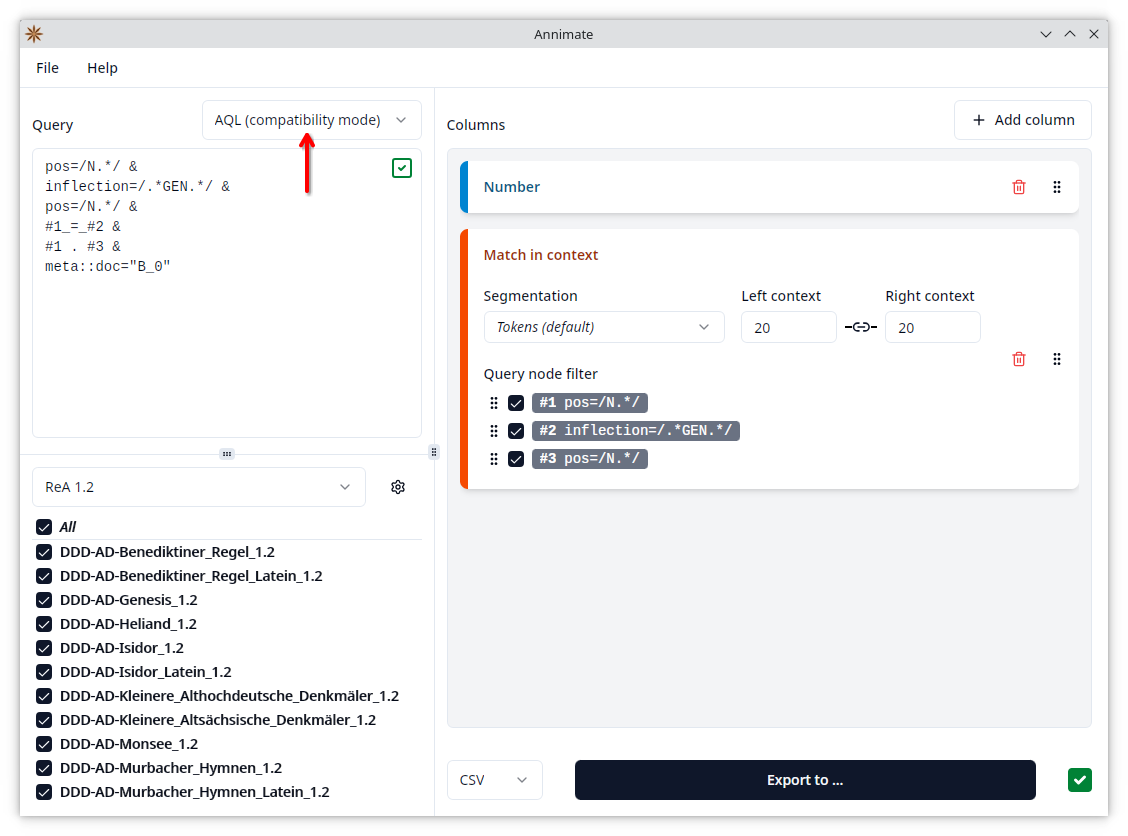
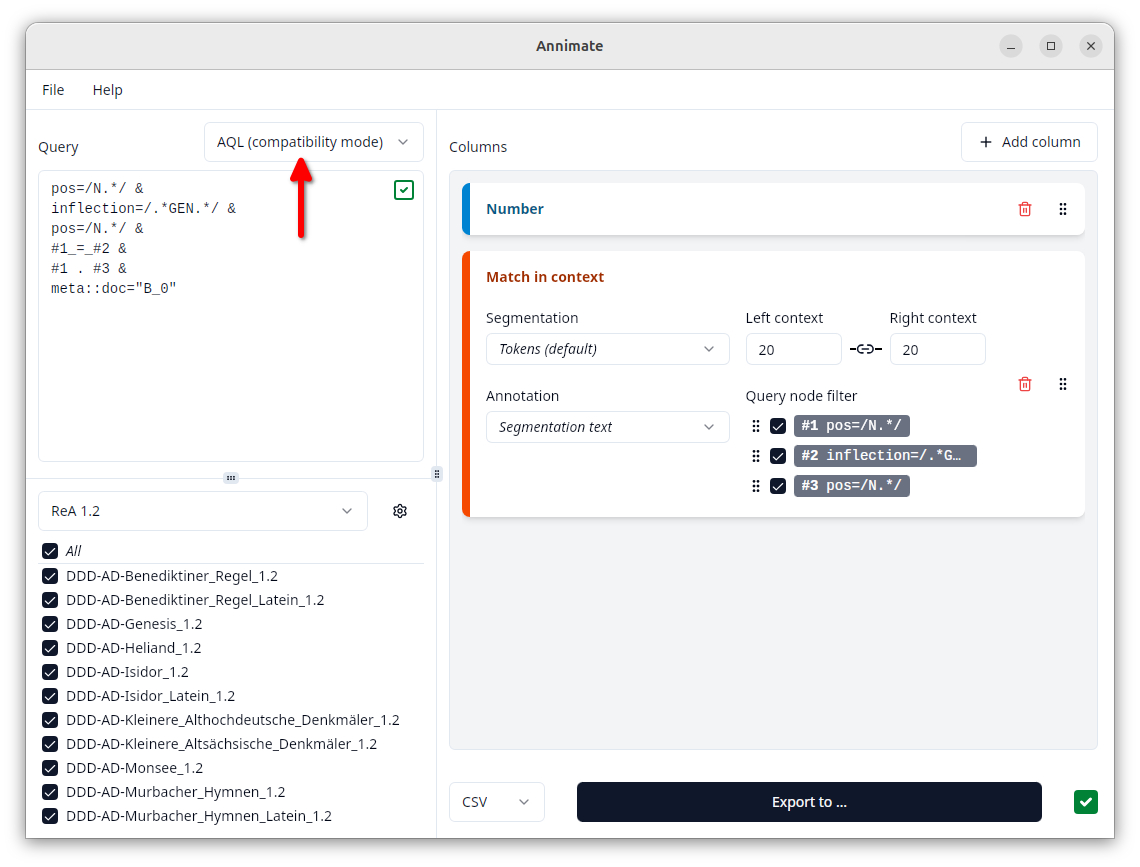
Update User Guide and README screenshot for annotation-in-context feature

diff --git a/docs/user-guide/src/columns/match-in-context.md b/docs/user-guide/src/columns/match-in-context.md
@@ -32,9 +32,13 @@ Under "Segmentation", you can select the segmentation layer to be used for the "
 
 Under "Left context" and "Right context" you can define how many segmentation nodes to the left respectively right of any match node should be included as context. You can enter any number from `0` to `999` inclusive. Since it is very common to use the same size for the left and right contexts, by default changing one of the two numbers will automatically set the other to the same value. In order to turn off this behavior, enabling you to set the left and right context sizes independently, click on the "link" icon between the two.
 
-> **Note:** Some corpora contain non-standard segmentations where the context size cannot be measured in segmentation nodes for technical reasons. In such cases, context size will be measured in tokens instead. This can lead to smaller context windows than expected. In this case, just increase the context size as needed. The textual content of the "Match in context" columns will still be according to the selected segmentation in any case.
+> **Note:** Some corpora contain non-standard segmentations where the context size cannot be measured in segmentation nodes for technical reasons. In such cases, context size will be measured in tokens instead. This can lead to smaller context windows than expected. In this case, just increase the context size as needed. The content of the "Match in context" columns will still be according to the selected segmentation in any case.
 
 Note that setting very small context sizes can lead to "gaps" in the export in case a match consists of two nodes that are so far apart that their context windows don't overlap. In this case the gap is marked as `(...)` in the respective context column in the export. If both context sizes are set to zero, the export will not contain any context columns at all (unless you use the query node filter, see below).
+
+Under "Annotation", you can select which annotation of the segmentation nodes to use for the "Match in context" columns. The default selection _Segmentation text_ refers to the textual content of the segmentation layer itself. If you select an annotation such as `pos` or `inflection`, the export will contain the value of the selected annotation for each segmentation node instead of its textual content. See [Match annotation](match-annotation.md) for details on this list of annotations.
+
+> **Note:** Unlike for "Match annotation", the selected annotation must be present on the segmentation nodes themselves rather than on any node with overlapping token coverage. If the exported columns are empty, try selecting a different segmentation.
 
 There is a special case in which you may want to treat a node matched by the query as part of the context rather than as a match: Some corpora contain annotations for larger spans such as clauses, which you may want to use as auxiliary nodes to express conditions on the nodes you are actually looking for. For instance, suppose we want to restrict the above query to matches contained within interrogative clauses:
 

diff --git a/docs/user-guide/src/troubleshooting.md b/docs/user-guide/src/troubleshooting.md
@@ -38,11 +38,17 @@ If your desired segmentation layer is not listed under "Segmentation" in a [Matc
 
 To fix this, you may want to group your corpora differently, so that all corpora in a set contain the same segmentations. Alternatively, you can use different segmentations for different subsets of corpora by doing separate exports.
 
-### Match in context: Columns are empty
+### Match in context: Columns are empty when "Segmentation text" is selected
 
-If the [Match in context](columns/match-in-context.md) columns in your CSV or Excel file are empty, this may be because you selected the _Tokens (default)_ segmentation, but your corpus uses _virtual tokens_. This means that the segmentation nodes on the token layer do not have any textual content (hence the empty columns), but just serve the purpose of aligning other segmentation layers.
+If the [Match in context](columns/match-in-context.md) columns in your CSV or Excel file are empty and you selected _Segmentation text_ under "Annotation", this may be because you selected the _Tokens (default)_ segmentation, but your corpus uses _virtual tokens_. This means that the segmentation nodes on the token layer do not have any textual content (hence the empty columns), but just serve the purpose of aligning other segmentation layers.
 
 To fix this, try choosing an option different from _Tokens (default)_ under "Segmentation". If there is no other option, check out the [previous point](#match-in-context-desired-segmentation-is-not-listed).
+
+### Match in context: Columns are empty when an annotation is selected
+
+If the [Match in context](columns/match-in-context.md) columns in your CSV or Excel file are empty and you selected an annotation different from _Segmentation text_, this may be because the selected annotation is not available on the nodes of the selected segmentation.
+
+To fix this, try choosing a different option under "Segmentation".
 
 ### Match in context: Context window is smaller than expected
 

diff --git a/docs/user-guide/README.md b/docs/user-guide/README.md
@@ -1,11 +1,19 @@
 # Annimate User Guide Authoring
 
+## Running the User Guide Locally
+
+Run
+
+```shell
+mdbook serve --open
+```
+
 ## Taking Screenshots
 
-- In `tauri.conf.json`, set window size to `1088x768`
-- In `main.rs`, comment the restoration of the window state
-- Configure window decorations appropriately
-  - In KDE use `Breeze` with `Small` shadows of strength `50%`, otherwise keep the defaults
+- In `tauri.conf.json`, set the window size to `1088x768`
+- In `main.rs`, comment out the restoration of the window state
 - Start the application and navigate to the state of which you want to take a screenshot
-- Take a screenshot of the window with Spectacle
-- Add annotations as needed
+- Take a screenshot of the window with the GNOME builtin screenshot tool (Alt+PrintScreen)
+- If the screenshot should include a native dialog, take a separate screenshot of the dialog and overlay the two images using [GIMP](https://www.gimp.org/)
+- Add annotations using [ksnip](https://github.com/ksnip/ksnip) if needed
+  - In ksnip, set Options > Settings > Annotator > Canvas Color to transparent

diff --git a/docs/user-guide/src/links.md b/docs/user-guide/src/links.md
@@ -36,3 +36,8 @@ Reference corpora of historical German (see [Deutsch Diachron Digital](https://w
 | [Referenzkorpus Mittelniederdeutsch/Niederrheinisch (ReN)](https://www.slm.uni-hamburg.de/ren.html) | 1.1     | [ANNIS 3](https://annis.fdm.uni-hamburg.de/annis-gui-3.6.0/ren) | [relannis (Uni Hamburg)](https://www.fdr.uni-hamburg.de/record/9195/files/relANNIS-split_1.1.zip?download=1) |
 
 \* Note that the two versions of ReM cannot be kept imported in Annimate at the same time, because the corpora have identical names, see the Note in [Importing Corpus Data](import.md#importing-into-annimate).
+
+## References
+
+- **Krause, Thomas & Zeldes, Amir** (2016): _ANNIS3: A new architecture for generic corpus query and visualization._ in: Digital Scholarship in the Humanities 2016 (31). <https://dsh.oxfordjournals.org/content/31/1/118>
+- **Stemmler, M., & Zeman, S.** (2026). _Annimate: Ein Tool zum Datenexport aus den historischen Referenzkorpora._ Online-Only Publikationen Des Leibniz-Instituts für Deutsche Sprache, 16. <https://doi.org/10.21248/idsopen.16.2026.72>
